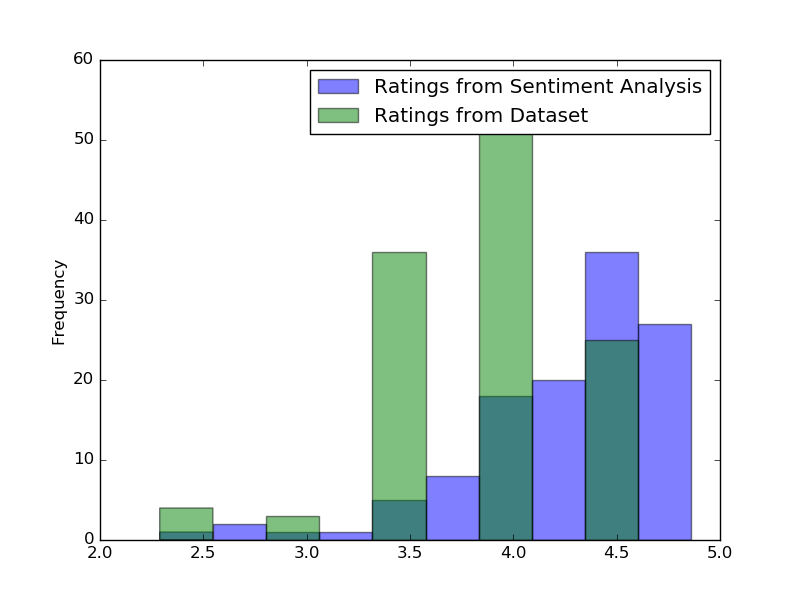
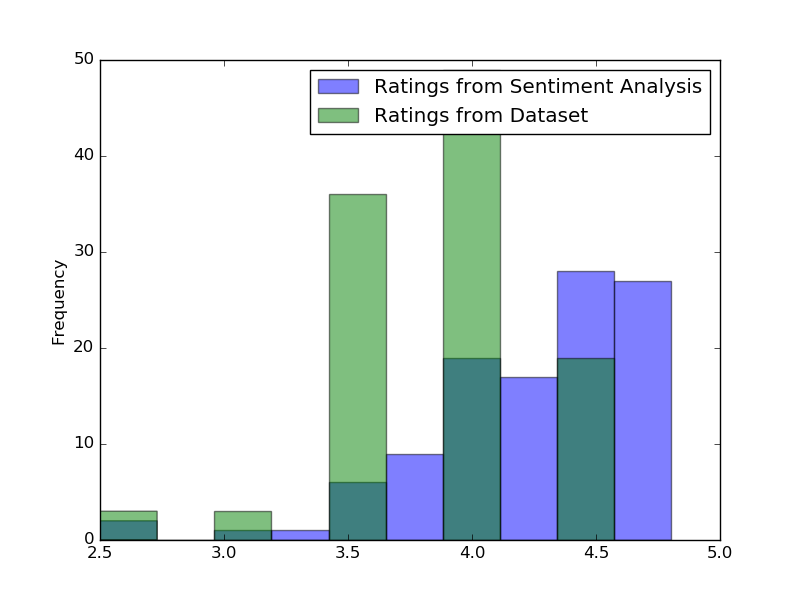
top 50 keywords in reviews

diff --git a/Project/yelp.py b/Project/yelp.py
@@ -1,3 +1,5 @@
+from collections import Counter
+
 from sqlalchemy import (create_engine, Table, Column, Integer, String, MetaData, inspect)
 from nltk.stem.porter import PorterStemmer
 from nltk.stem import WordNetLemmatizer
@@ -13,6 +15,29 @@ import matplotlib.pyplot as plt
     pip install -U textblob
     python -m textblob.download_corpora
 '''
+
+
+def findFrequentWords(fwdf,sentiment,plotname):
+    fwdf = fwdf[(fwdf.sentiment == sentiment)]
+    all = fwdf['keywords'].tolist()
+    r = []
+    for wordlist in all:
+        parseList = [x for x in wordlist if not '.' in x]
+        parseList = [x for x in parseList if not "'" in x]
+        r.extend(parseList)
+    words = Counter(" ".join(r).split(" ")).most_common(50)
+    df = pd.DataFrame(words, columns=['Word', 'Count'])
+    df.plot.bar(x='Word', y='Count')
+    plt.savefig(plotname)
+
+
+def plotRatings(pdf,plotname):
+    ratingsdf = pdf.groupby('id')['sentiment', 'stars'].mean().head(pdf.shape[0])
+    ratingsdf.columns = ['Ratings from Sentiment Analysis', 'Ratings from Dataset']
+    # print(ratingsdf)
+    ratingsdf.plot.hist(alpha=0.5)
+    plt.savefig(plotname)
+
 
 db_uri = "mysql+pymysql://root:root@localhost:3306/yelp_db"
 
@@ -30,21 +55,18 @@ sql = """select top_biz.stars,top_biz.id,review.text FROM \
    ORDER BY review_count DESC \
    ) top_biz \
 INNER join review on top_biz.id = review.business_id \
+INNER join category on category.business_id = top_biz.id and category.category = 'Restaurants' \
 ORDER BY top_biz.review_count DESC;"""
 
-df = pd.read_sql(sql,connection)
-
+df = pd.read_sql(sql, connection)
+# blob = TextBlob("some random text where you!! extract intelligent key word with an, new boy and an rein deer dear")
+df['keywords'] = df.apply(lambda row: TextBlob(row.text).noun_phrases, axis=1)
 df['polarity'] = df.apply(lambda row: TextBlob(row.text).polarity,axis=1)
 df['sentiment'] = df.apply(lambda row: -5 if row.polarity < 0 else 5,axis=1)
-ratingsdf = df.groupby('id')['sentiment', 'stars'].mean().head(df.shape[0])
-ratingsdf.columns = ['Ratings from Sentiment Analysis', 'Ratings from Dataset']
-#print(ratingsdf)
 
-ratingsdf.plot.hist(alpha=0.5)
-plt.savefig('sentimentanalysis.png')
-
-
-
+findFrequentWords(df,-5,'top50_negativereviews')
+findFrequentWords(df,5,'top50_positivereviews')
+#plotRatings(df,'sentimentanalysis.png')
 
 
 
